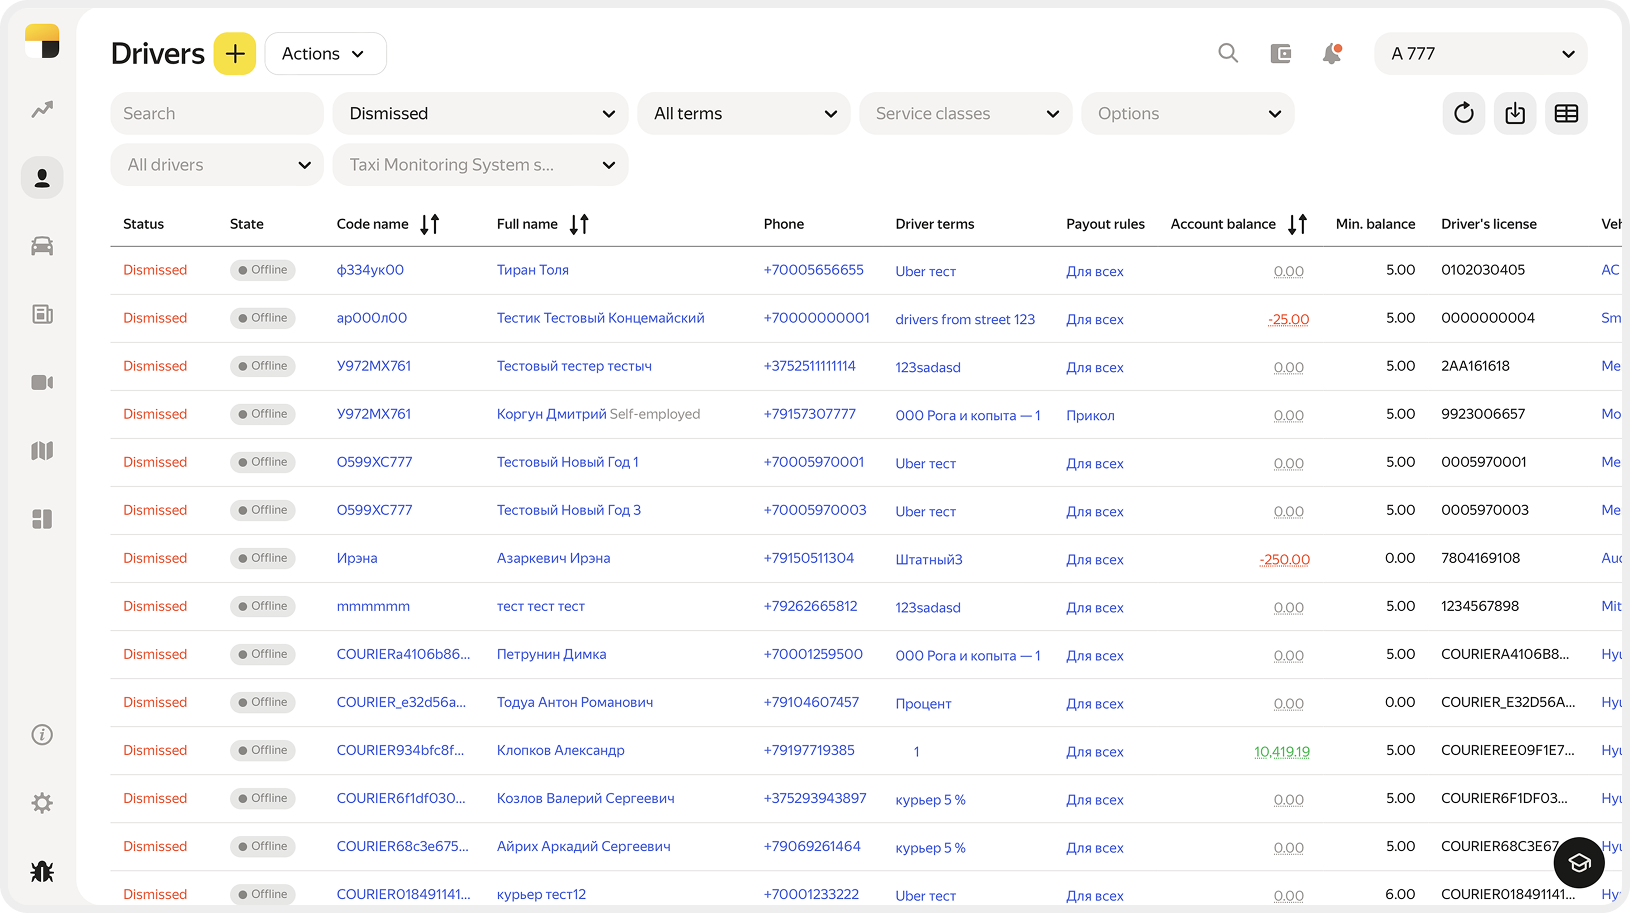
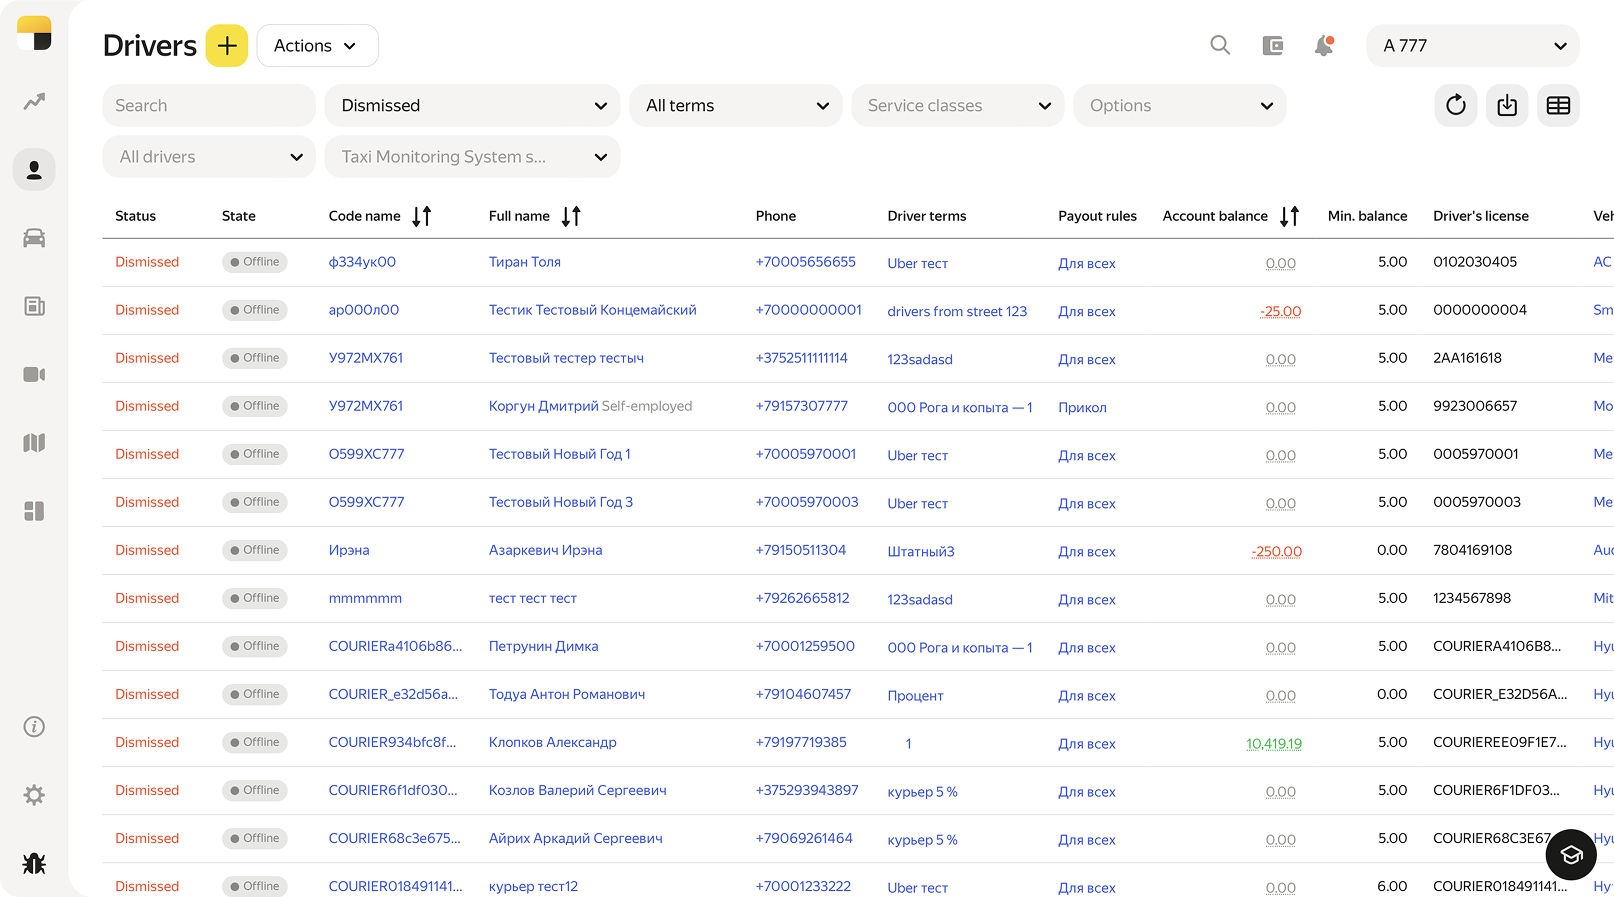
Update Fleet case study galleries

diff --git a/src/scripts/compare-image.ts b/src/scripts/compare-image.ts
@@ -1,9 +1,9 @@
 /**
- * Click-to-flip before/after comparison. A single click swaps which frame
- * (and which caption) is active. The outgoing frame remains fully visible
+ * A click on the stage shows the next frame and its caption.
+ * The outgoing frame remains fully visible
  * underneath while the incoming frame softly dissolves over it. This avoids
  * exposing the grey stage between dark screenshots, which reads as a flash.
- * No layout shift, since both frames/captions share the same box.
+ * Frames and captions share their boxes to avoid layout shifts.
  */
 
 // Must match the image opacity transition in global.css.
@@ -12,50 +12,65 @@ const CAPTION_SWAP_MS = 260;
 
 function setupCompare(stage: HTMLElement) {
   const frames = Array.from(stage.querySelectorAll<HTMLElement>('[data-compare-frame]'));
-  const figure = stage.closest('.compare-image');
-  const captions = figure
-    ? Array.from(figure.querySelectorAll<HTMLElement>('[data-compare-caption]'))
-    : [];
+  const comparison = stage.closest('.compare-image');
+  const captions = Array.from(comparison?.querySelectorAll<HTMLElement>('[data-compare-caption]') ?? []);
+  const previews = Array.from(comparison?.querySelectorAll<HTMLButtonElement>('[data-compare-preview]') ?? []);
   if (frames.length < 2) return () => {};
 
-  let activeIndex = 0;
-  let pending = false;
+  let activeIndex = Math.max(0, frames.findIndex((frame) => frame.classList.contains('is-active')));
+  let pendingIndex: number | undefined;
   let frameTimeoutId: ReturnType<typeof setTimeout> | undefined;
   let captionTimeoutId: ReturnType<typeof setTimeout> | undefined;
 
-  function toggle() {
-    if (pending) return;
-    pending = true;
+  function finishTransition() {
+    if (pendingIndex === undefined) return;
 
-    const nextIndex = activeIndex === 0 ? 1 : 0;
-    const currentFrame = frames[activeIndex];
+    const nextIndex = pendingIndex;
+    frames[activeIndex].classList.remove('is-active');
+    frames[nextIndex].classList.replace('is-entering', 'is-active');
+    captions[nextIndex]?.classList.remove('is-entering');
+    captions[nextIndex]?.classList.add('is-active');
+    previews.forEach((preview, index) => {
+      preview.setAttribute('aria-pressed', String(index === nextIndex));
+    });
+    activeIndex = nextIndex;
+    pendingIndex = undefined;
+  }
+
+  function selectFrame(nextIndex: number) {
     const nextFrame = frames[nextIndex];
-    const currentCaption = captions[activeIndex];
-    const nextCaption = captions[nextIndex];
+    if (!nextFrame || pendingIndex !== undefined || nextIndex === activeIndex) return;
 
+    pendingIndex = nextIndex;
     nextFrame.classList.add('is-entering');
     // Captions must never overlap: fade the current caption out during
     // the first half, then fade the next one in during the second half.
-    currentCaption?.classList.remove('is-active');
+    captions[activeIndex]?.classList.remove('is-active');
     captionTimeoutId = setTimeout(() => {
-      nextCaption?.classList.add('is-entering');
+      captions[nextIndex]?.classList.add('is-entering');
     }, CAPTION_SWAP_MS);
 
-    frameTimeoutId = setTimeout(() => {
-      currentFrame.classList.remove('is-active');
-      nextFrame.classList.replace('is-entering', 'is-active');
-      nextCaption?.classList.replace('is-entering', 'is-active');
-      activeIndex = nextIndex;
-      pending = false;
-    }, DISSOLVE_MS);
+    frameTimeoutId = setTimeout(finishTransition, DISSOLVE_MS);
   }
 
-  stage.addEventListener('click', toggle);
+  function showNextFrame() {
+    selectFrame((activeIndex + 1) % frames.length);
+  }
+
+  function onPreviewClick(event: Event) {
+    const preview = event.currentTarget as HTMLButtonElement;
+    selectFrame(previews.indexOf(preview));
+  }
+
+  stage.addEventListener('click', showNextFrame);
+  previews.forEach((preview) => preview.addEventListener('click', onPreviewClick));
 
   return () => {
-    stage.removeEventListener('click', toggle);
+    stage.removeEventListener('click', showNextFrame);
+    previews.forEach((preview) => preview.removeEventListener('click', onPreviewClick));
     if (frameTimeoutId) clearTimeout(frameTimeoutId);
     if (captionTimeoutId) clearTimeout(captionTimeoutId);
+    finishTransition();
   };
 }
 

diff --git a/src/styles/global.css b/src/styles/global.css
@@ -480,7 +480,7 @@ a {
 
 .inline-image__inner {
   width: 100%;
-  margin-inline: auto;
+  margin: 0 auto;
 }
 
 .inline-image--pad-right .inline-image__inner {
@@ -521,36 +521,73 @@ a {
   }
 }
 
-/* Static image at the same 72% width as the compare-image stage.
-   Keep the source aspect ratio intact — screenshots must never be cropped. */
-.inline-image--compare {
+.compare-image {
+  margin: 62px 0;
+}
+
+.compare-image__panel {
+  margin: 0;
+  padding-block: 90px 70px;
+  background-color: #e2e2e2;
+  border-radius: 16px;
+}
+
+.compare-image__stage,
+.image-previews {
   width: 72%;
   margin-inline: auto;
 }
 
-.inline-image--compare .inline-image__img {
-  background: var(--color-bg);
-}
-
-.inline-image--compare .inline-image__caption {
-  position: relative;
-  left: 50%;
-  width: calc(100% / 0.72);
-  transform: translateX(-50%);
-  margin-top: 24px;
+.compare-image__caption {
+  margin: var(--line-height-body) var(--content-gutter) 0;
   text-wrap: balance;
 }
 
 @media (max-width: 720px) {
-  .inline-image--compare {
-    width: 100%;
+  .compare-image__stage,
+  .image-previews {
+    width: calc(100% - var(--content-gutter) * 2);
   }
+}
 
-  .inline-image--compare .inline-image__caption {
-    width: 100%;
-    left: 0;
-    transform: none;
-  }
+.image-previews {
+  --image-preview-gap: 8px;
+  display: flex;
+  align-items: flex-start;
+  gap: var(--image-preview-gap);
+  margin-bottom: var(--image-preview-gap);
+}
+
+.image-preview {
+  display: block;
+  width: 64.4px;
+  background-color: var(--image-preview-background, var(--color-bg));
+  border-radius: 4px;
+}
+
+.image-preview img {
+  width: 100%;
+  height: auto;
+  transform: scale(0.9);
+}
+
+button.image-preview {
+  padding: 0;
+  border: 0;
+  cursor: pointer;
+}
+
+button.image-preview img {
+  transition: opacity var(--duration-fast) var(--ease-out-expo);
+}
+
+button.image-preview[aria-pressed='false'] img {
+  opacity: 0.5;
+}
+
+button.image-preview:focus-visible {
+  outline: 2px solid var(--color-text);
+  outline-offset: 2px;
 }
 
 /* Layer stack — scattered layers that assemble into one on scroll */
@@ -589,23 +626,14 @@ a {
   }
 }
 
-/* Compare image — click-to-flip before/after screenshot comparison.
-   Narrower than the text column (30% margin either side) with a caption
-   area reserved for two lines so switching frames never shifts layout. */
-.compare-image {
-  width: 72%;
-  margin-inline: auto;
-  margin-block: var(--container-gap);
-}
-
+/* Screenshot gallery */
 .compare-image__stage {
   position: relative;
   display: block;
-  width: 100%;
-  aspect-ratio: 16 / 9;
+  aspect-ratio: var(--compare-image-aspect);
   padding: 0;
   border: none;
-  background: var(--color-bg);
+  background: transparent;
   cursor: pointer;
   border-radius: 6px;
   overflow: hidden;
@@ -642,16 +670,9 @@ a {
 }
 
 .compare-image__caption {
-  position: relative;
-  left: 50%;
-  width: calc(100% / 0.72);
-  transform: translateX(-50%);
-  margin-top: 24px;
-  display: flex;
-  align-items: flex-start;
-  justify-content: center;
-  /* Reserve space for two lines so a 1-line and 2-line caption never
-     cause a layout jump when the frame (and its caption) is swapped. */
+  display: grid;
+  grid-template-columns: minmax(0, 1fr);
+  /* Both captions contribute to the height so switching frames never shifts the layout. */
   min-height: calc(1.4em * 2);
   text-align: center;
   font-size: 13px;
@@ -660,12 +681,7 @@ a {
 }
 
 .compare-image__caption-text {
-  position: absolute;
-  inset: 0;
-  display: flex;
-  align-items: flex-start;
-  justify-content: center;
-  text-wrap: balance;
+  grid-area: 1 / 1;
   opacity: 0;
   z-index: 0;
   transition: opacity 0.26s cubic-bezier(0.4, 0, 0.2, 1);
@@ -679,17 +695,6 @@ a {
 .compare-image__caption-text.is-entering {
   opacity: 1;
   z-index: 2;
-}
-
-@media (max-width: 720px) {
-  .compare-image {
-    width: 100%;
-    margin-block: var(--image-gap-mobile);
-  }
-
-  .compare-image__caption {
-    width: 100%;
-  }
 }
 
 /* Photo stack — wabi-style pile of prints, click to shuffle to the next one */

diff --git a/src/content/site.ts b/src/content/site.ts
@@ -125,6 +125,7 @@ export const detailsSections = [
       `The same principles shaped everything we built afterwards. We introduced a layer of aggregated insights across drivers, vehicles, and finances. Instead of navigating endless tables, partners could understand the overall health of their business at a glance. Dashboards gave us a shared language for discussing key business indicators and made it easier to focus on what actually required attention.`,
       `We also introduced dedicated tools for partners who owned their own vehicle fleets, giving them visibility into rentals, expenses, and profitability.`,
       `Finally, we created the Home Page, bringing everything together into a single strategic view of the business. It highlighted opportunities, risks, and the next actions to take, allowing us to speak to partners about their business as a whole rather than through isolated pieces of data.`,
+      `As we rethought Fleet, our design system grew from individual components into reusable patterns that helped us build new products faster.`,
     ],
   },
   {

diff --git a/src/scripts/page-fade.ts b/src/scripts/page-fade.ts
@@ -6,11 +6,7 @@
 export function initMediaAwarePageFades() {
   const topFade = document.querySelector<HTMLElement>('.page-fade--top');
   const bottomFade = document.querySelector<HTMLElement>('.page-fade--bottom');
-  const media = Array.from(
-    document.querySelectorAll<HTMLElement>(
-      '.compare-image__stage, .inline-image--compare .inline-image__img'
-    )
-  );
+  const media = Array.from(document.querySelectorAll<HTMLElement>('.compare-image__stage'));
 
   if ((!topFade && !bottomFade) || media.length === 0) return () => {};
 
